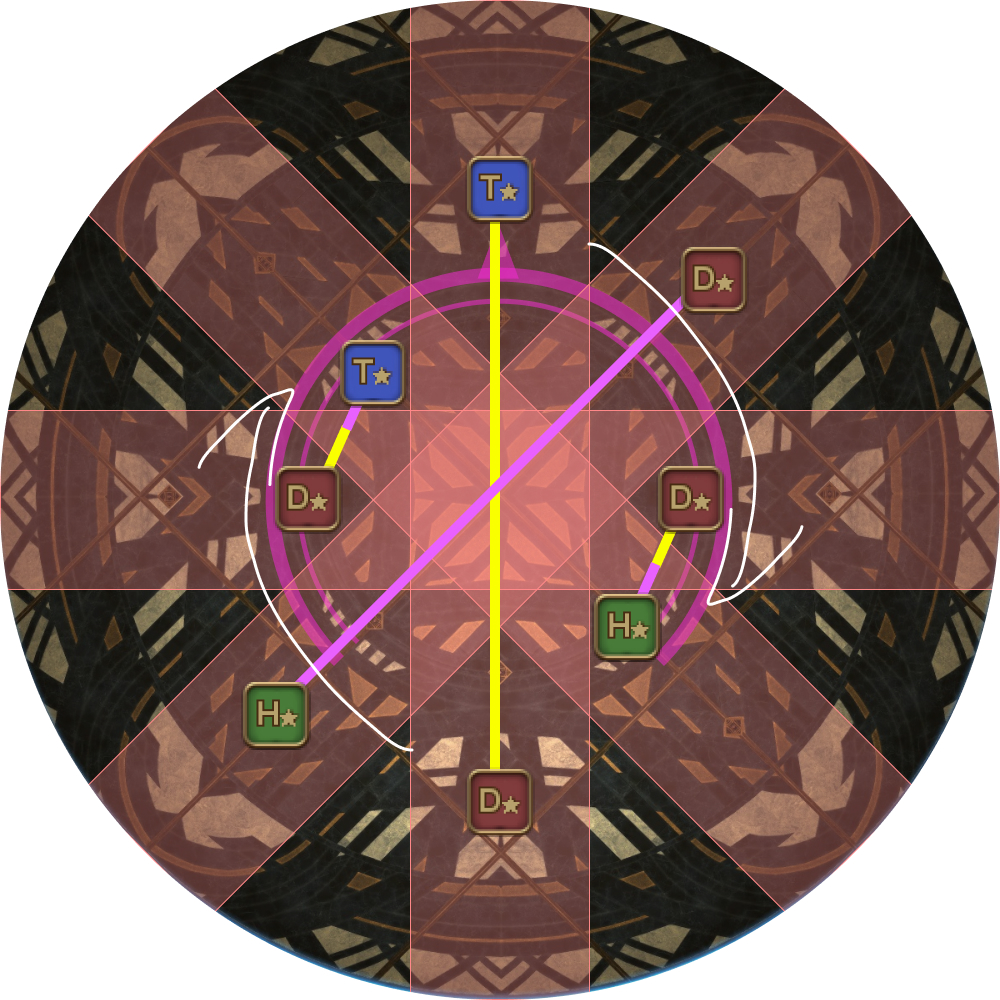
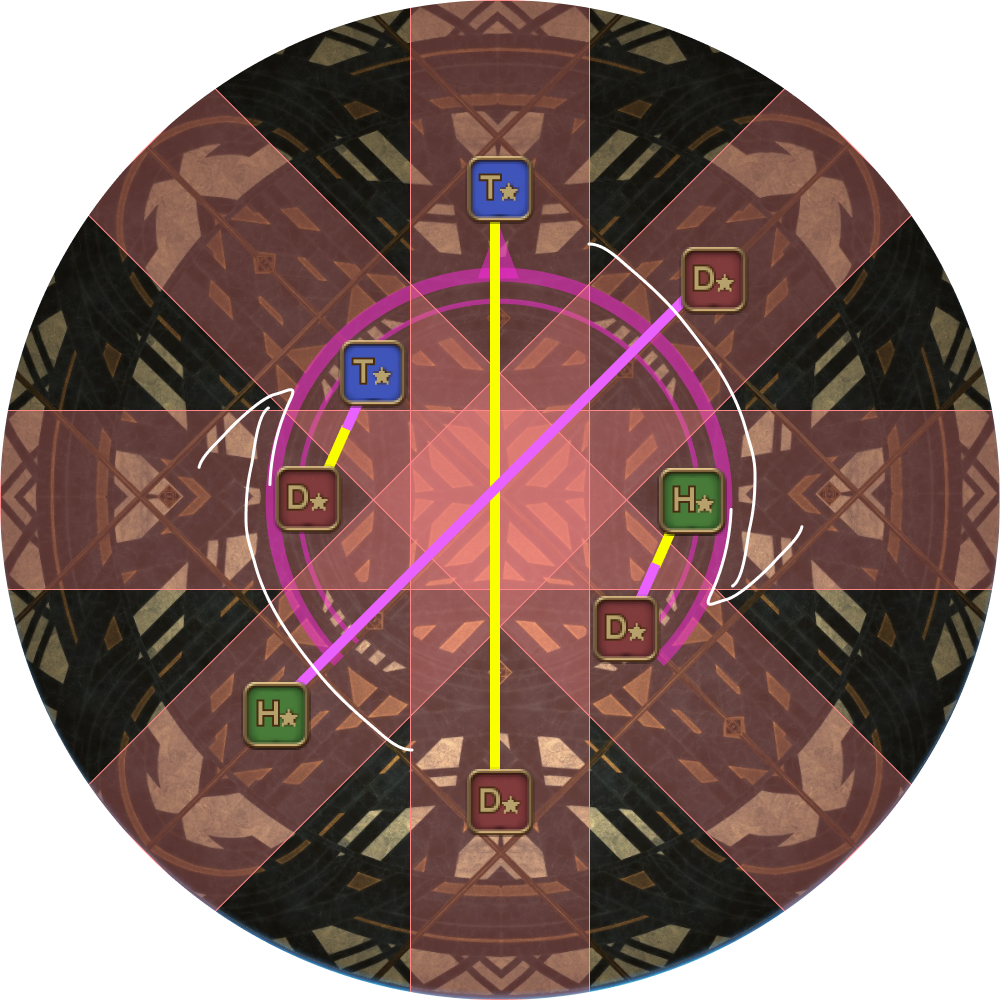
Correct Dark and Light Jury Overruling spread

Changed region(s): [[0.651, 0.465, 0.744, 0.558], [0.589, 0.589, 0.682, 0.682]]

diff --git a/6.0_endwalker/savage_raids/p11s/README.md b/6.0_endwalker/savage_raids/p11s/README.md
@@ -128,9 +128,9 @@ The party will always rotate **clockwise** to resolve the upcoming mechanics.
     <p>From the stack positions in the previous step:</p>
     <ul>
       <li><b>Long Light:</b> Stay where you are.</li>
-      <li><b>Long Dark:</b> Rotate one clockwise 45 degrees.</li>
-      <li><b>Short Light:</b> Rotate clockwise 90 degrees (these will always be DPS).</li>
-      <li><b>Short Dark:</b> Rotate clockwise 135 degrees (these will always be Tanks/Healers).</li>
+      <li><b>Long Dark:</b> Rotate clockwise once (45 degrees).</li>
+      <li><b>Short Light:</b> Rotate clockwise twice (90 degrees).</li>
+      <li><b>Short Dark:</b> Rotate clockwise three times (135 degrees).</li>
     </ul>
     <p>The long tethers can use the waymarks on the ground.</p><p>The short tethers will use the diamond marks on the floor inside the boss's targeting circle.</p></td>
     <td><img src="images/dark_and_light_05.jpg"></td>
